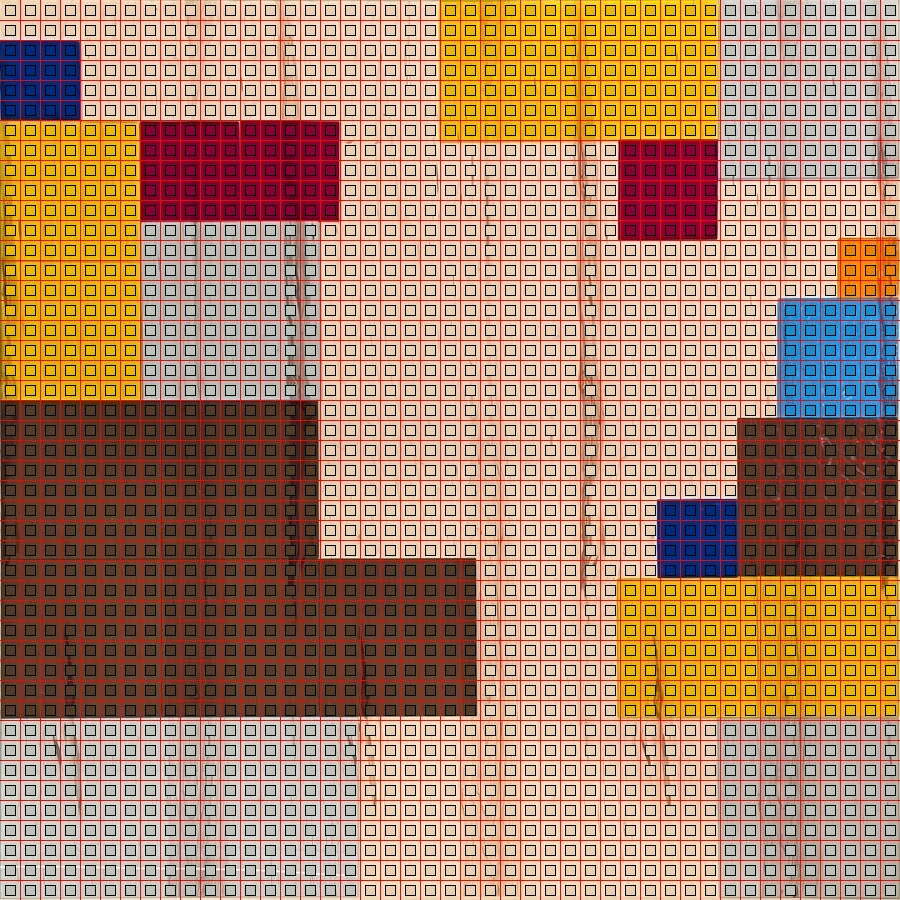
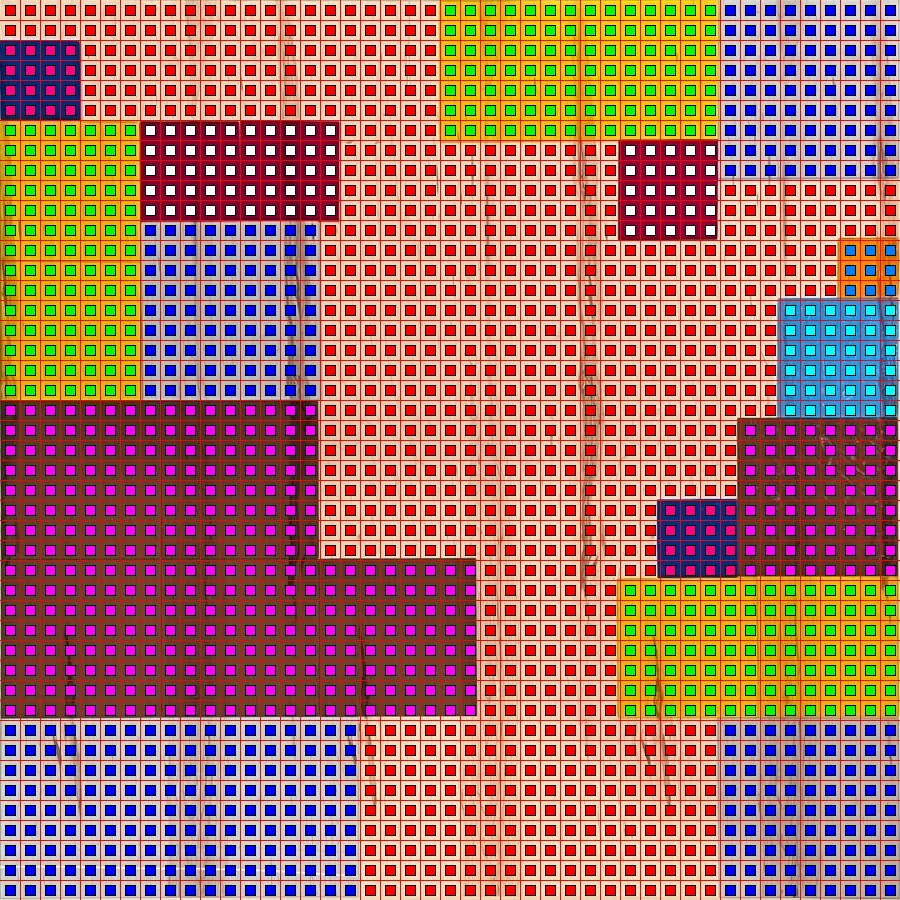
Use more distinct colors

Changed region(s): [[0.0, 0.0, 1.0, 1.0]]

diff --git a/to_json.py b/to_json.py
@@ -103,17 +103,42 @@ if len(valid) == 0:
 
 # Compute representative colors for each cluster
 cluster_colors = {}
+# Use a predefined palette of distinct colors for better visibility
+distinct_colors = [
+    (255, 0, 0),     # Pure Red
+    (0, 255, 0),     # Pure Green
+    (0, 0, 255),     # Pure Blue (only one blue)
+    (255, 255, 0),   # Pure Yellow
+    (255, 0, 255),   # Pure Magenta
+    (255, 128, 0),   # Orange
+    (128, 0, 255),   # Purple
+    (255, 255, 255), # White
+    (0, 0, 0),       # Black
+    (255, 192, 203), # Pink
+    (165, 42, 42),   # Brown
+    (128, 128, 128), # Gray
+    (255, 215, 0),   # Gold
+    (50, 205, 50),   # Lime Green
+    (148, 0, 211),   # Dark Violet
+    (255, 69, 0),    # Red Orange
+    (0, 100, 0),     # Dark Green
+    (139, 69, 19),   # Saddle Brown
+    (255, 182, 193), # Light Pink
+    (255, 20, 147),  # Deep Pink
+    (255, 228, 181), # Moccasin
+    (34, 139, 34),   # Forest Green
+    (128, 0, 0),     # Maroon
+    (255, 105, 180), # Hot Pink
+    (210, 180, 140), # Tan
+]
+
+color_idx = 0
 for label in unique_labels:
     if label == -1:  # noise
         continue
-    mask = labels_all == label
-    mean_lab = all_samples[mask].mean(axis=0)
-    # Convert Lab to RGB for visualization
-    lab_pixel = mean_lab.reshape(1, 1, 3)
-    rgb_pixel = color.lab2rgb(lab_pixel)
-    # Convert to BGR for OpenCV (0-255 range)
-    bgr_color = (rgb_pixel[0, 0] * 255)[::-1]  # RGB to BGR and scale to 0-255
-    cluster_colors[label] = tuple(int(c) for c in bgr_color)
+    # Assign distinct colors cyclically
+    cluster_colors[label] = distinct_colors[color_idx % len(distinct_colors)]
+    color_idx += 1
 
 if args.debug:
     print("🔍 Cluster colors:")
